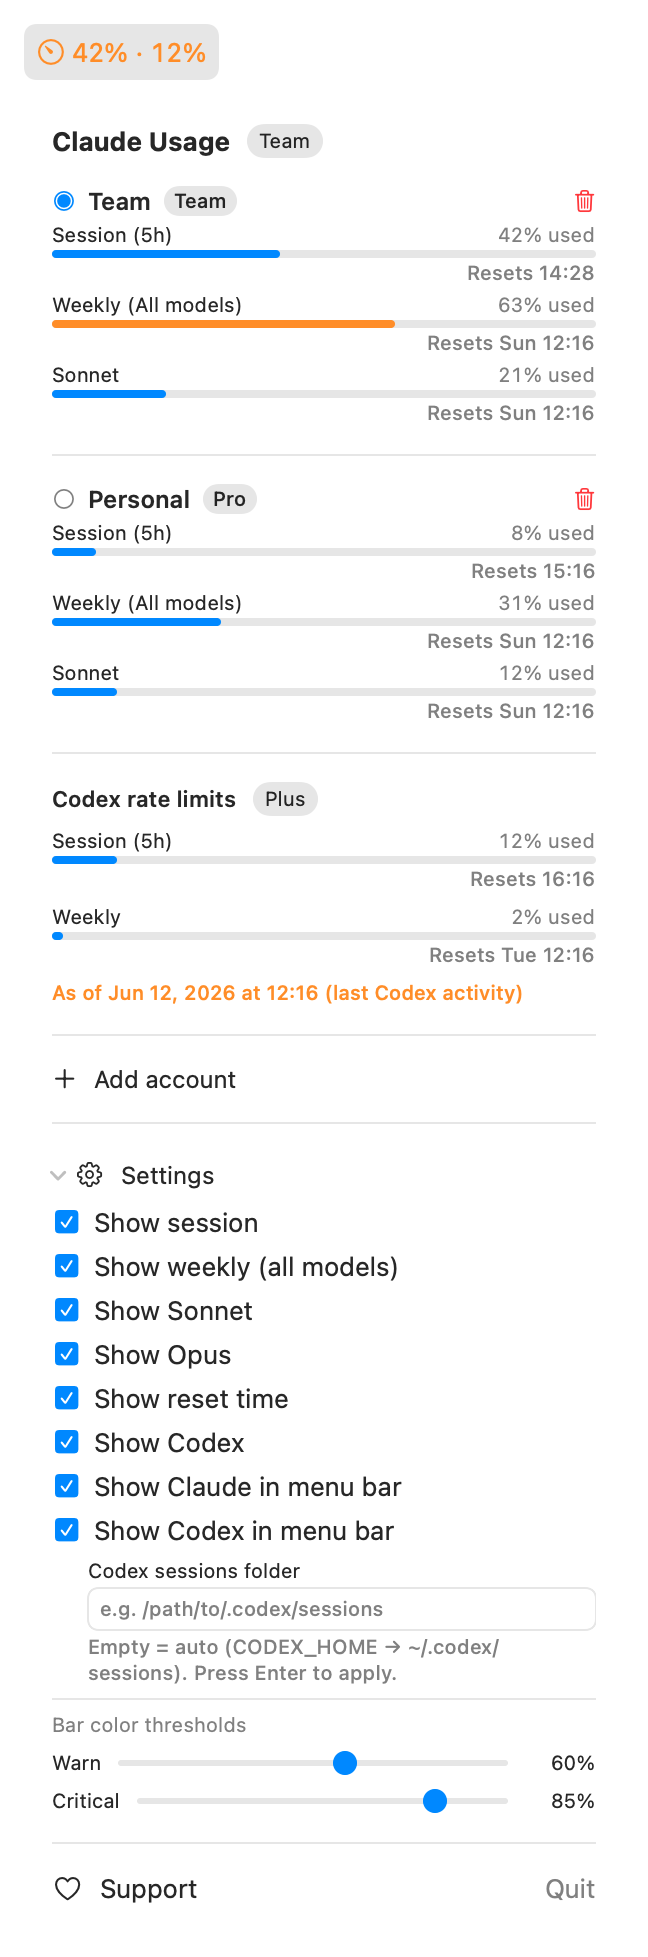
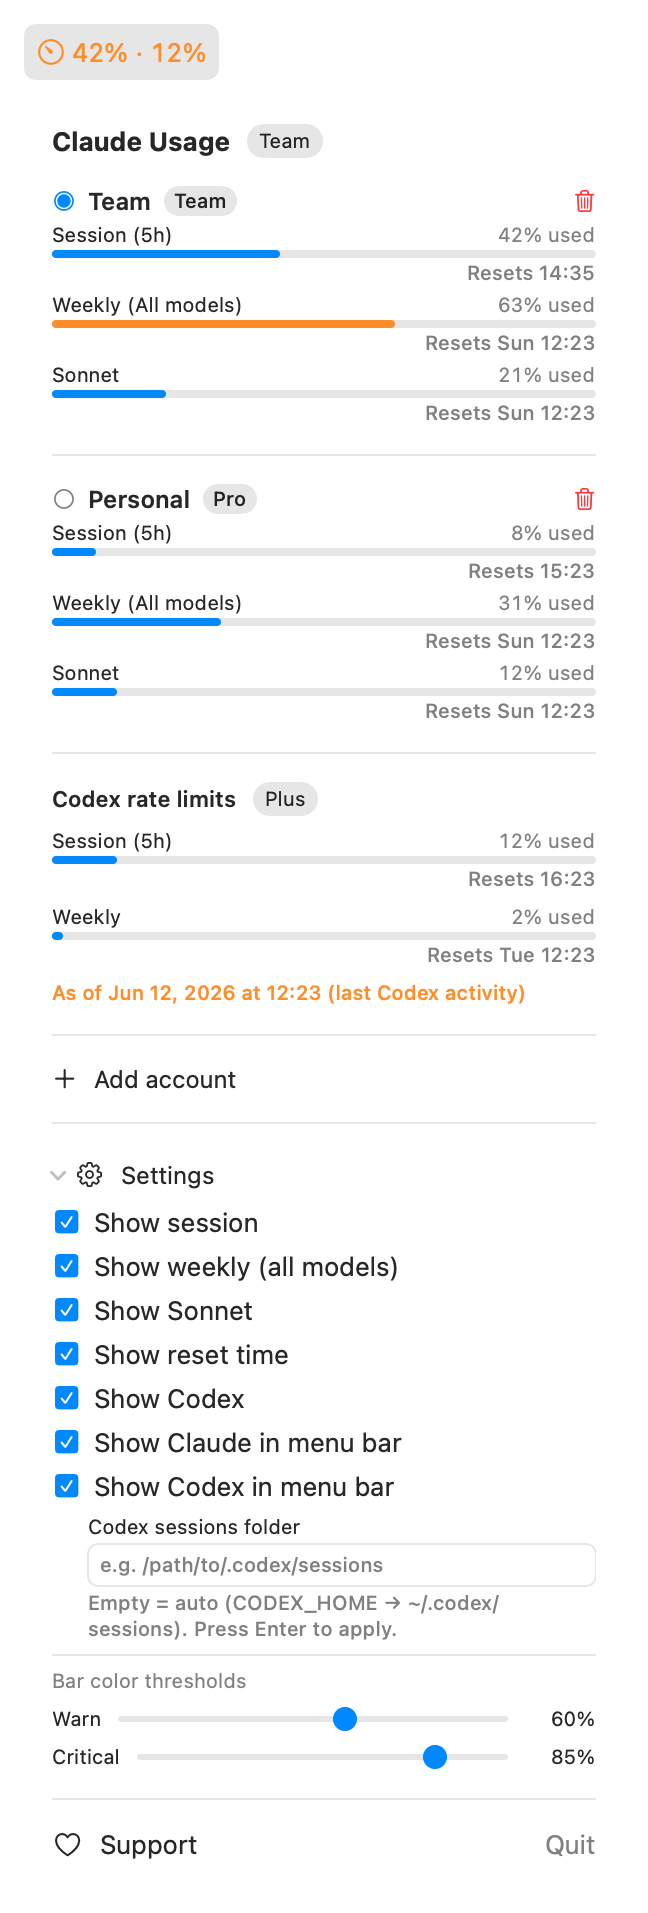
Hide the Show Opus toggle when no account has an Opus weekly limit
The seven_day_opus limit only exists on some plans; for accounts without it
the toggle was a no-op. Render it only when an account actually reports Opus
data (it reappears automatically for plans that have it). Regenerated the
Settings screenshots.

diff --git a/Sources/ClaudeMeter/ClaudeMeterApp.swift b/Sources/ClaudeMeter/ClaudeMeterApp.swift
@@ -394,7 +394,12 @@ struct UsagePopoverView: View {
                 settingsToggle(L.showSession, $settings.showSession)
                 settingsToggle(L.showWeeklyAll, $settings.showWeeklyAll)
                 settingsToggle(L.showSonnet, $settings.showSonnet)
-                settingsToggle(L.showOpus, $settings.showOpus)
+                // A separate weekly Opus limit only exists on some plans (the API
+                // omits seven_day_opus otherwise), so only offer the toggle when an
+                // account actually reports one — else it's a no-op control.
+                if model.accountUsages.values.contains(where: { $0.sevenDayOpus != nil }) {
+                    settingsToggle(L.showOpus, $settings.showOpus)
+                }
                 settingsToggle(L.showResetTime, $settings.showResetTime)
                 settingsToggle(L.showCodex, $settings.showCodex)
                 settingsToggle(L.showClaudeInMenuBar, $settings.showClaudeInMenuBar)